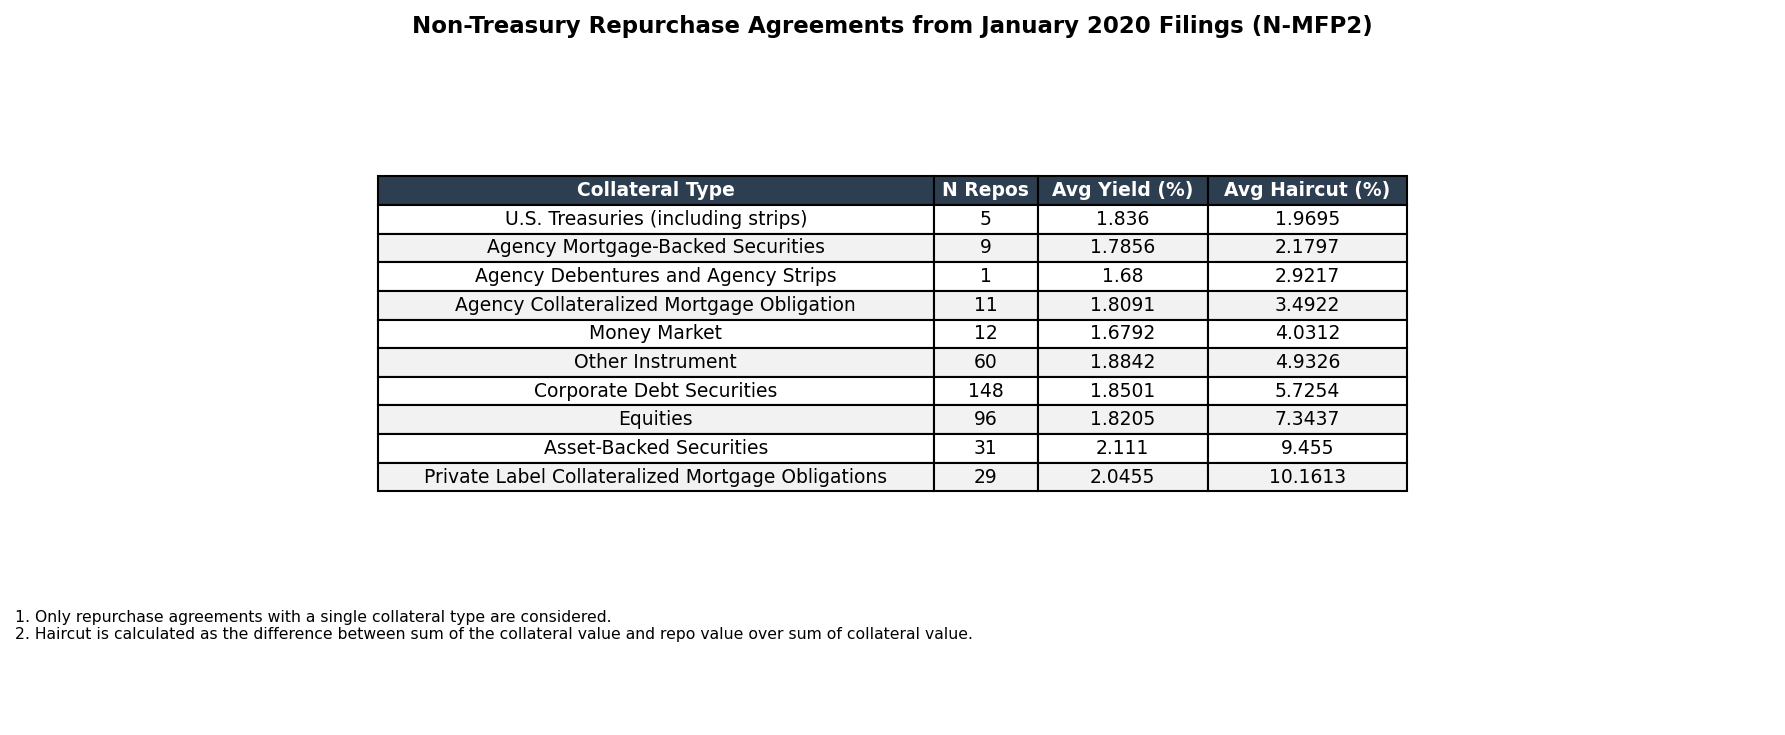
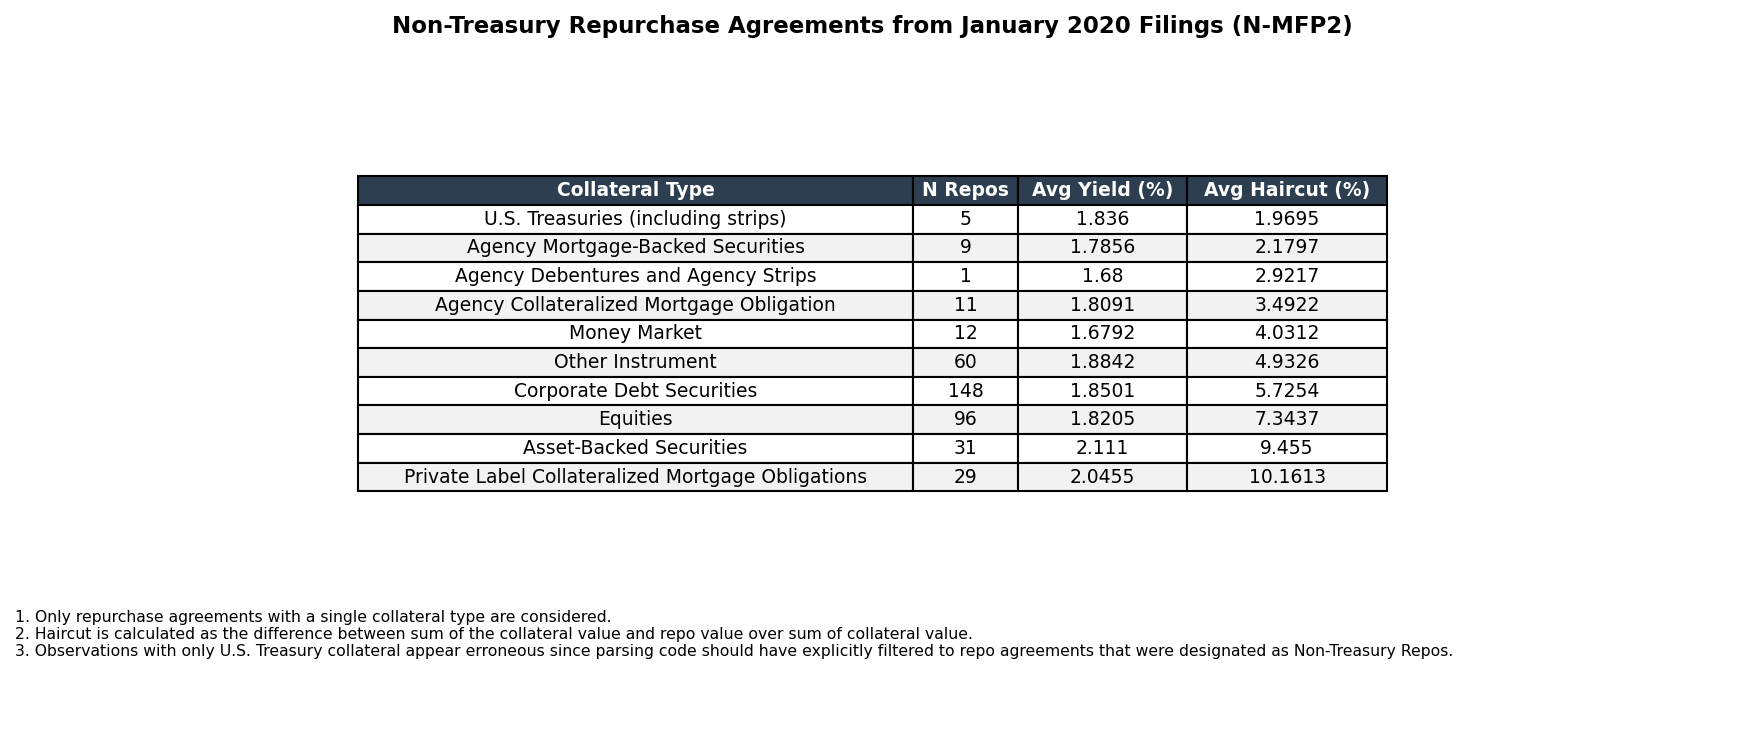
Add third footnote on U.S. Treasury observations

diff --git a/analysis/analysis.py b/analysis/analysis.py
@@ -135,7 +135,9 @@ ax_table.set_title(
 footnotes = (
     "1. Only repurchase agreements with a single collateral type are considered.\n"
     "2. Haircut is calculated as the difference between sum of the collateral value "
-    "and repo value over sum of collateral value."
+    "and repo value over sum of collateral value.\n"
+    "3. Observations with only U.S. Treasury collateral appear erroneous since parsing "
+    "code should have explicitly filtered to repo agreements that were designated as Non-Treasury Repos."
 )
 ax_notes.text(0, 1, footnotes, fontsize=7.5, color="black",
               verticalalignment="top", transform=ax_notes.transAxes)
